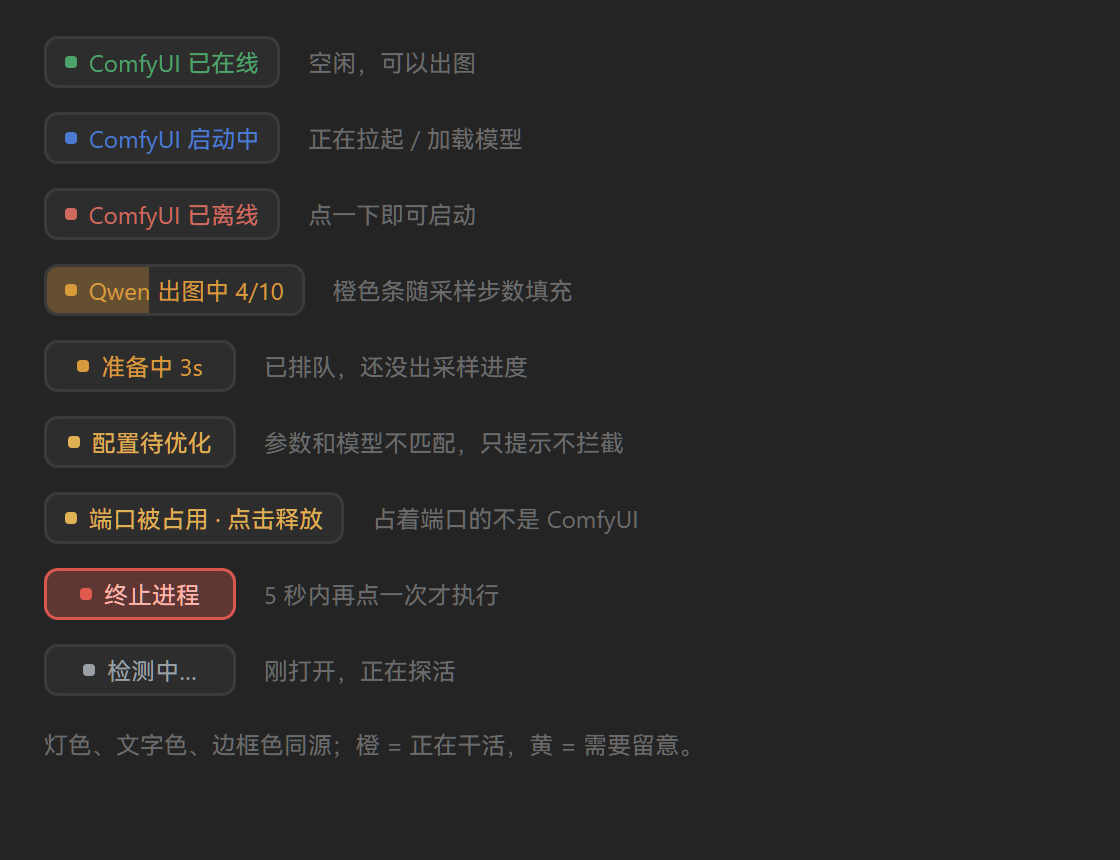
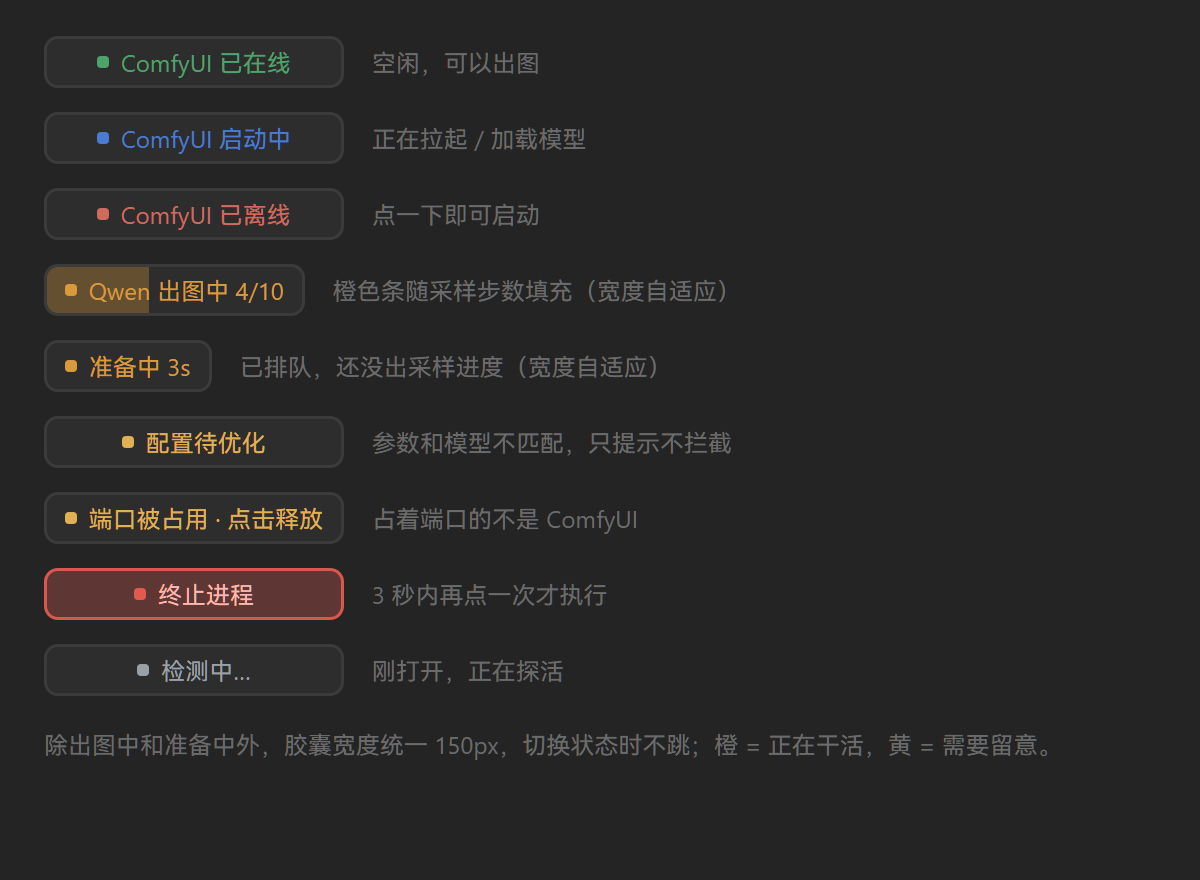
style: 除出图中外，胶囊宽度固定成 150px
之前胶囊宽度跟着文字走，切换状态时一会儿 96px、一会儿 118px、一会儿
还有 150px 的（「端口被占用 · 点击释放」），对话框右侧那块会跟着抖。

现在按最长的那个状态量出来是 150px，固定成它：
- .qwd-seat 加 box-sizing: border-box + width: 150px（原来只有 min-width: 96px）
- .qwd-seat-busy 保持 width: auto——出图中和准备中的文字带步数 / 秒数，
  长度本来就在变
- .qwd-seat-panel 也保持 auto，设置页那个字号更大，150px 装不下

README 示意图重渲染。

diff --git a/client.js b/client.js
@@ -2226,9 +2226,11 @@ const SEAT_STYLE = `
   display: inline-flex; align-items: center; justify-content: center; gap: 6px;
   /* 固定最小宽度：待确认时文案会换，宽度一变胶囊就会左右抽动。
      96px 能装下「终止进程？」这类短文案，切换时宽度保持不变。 */
-  min-width: 96px;
-  /* 圆角不是全圆头：和插件里的按钮（7px）、输入框（6px）保持同一套圆角，
-     全圆头（13px = 高度的一半）看着像药丸，和 DSH 的方正风格不搭 */
+  /* 固定宽度，按最长的「端口被占用 · 点击释放」量出来是 150px。
+     这样切换状态时胶囊不会忽宽忽窄，对话框右侧那块不会跟着抖。
+     出图中和准备中的文字长度会变（步数、秒数），单独给它 width: auto。 */
+  box-sizing: border-box;
+  width: 150px;
   height: 26px; padding: 0 9px; border-radius: 7px;
   font-size: 12px; line-height: 1; white-space: nowrap;
   color: var(--dsw-alias-text-secondary, #8b8f96);
@@ -2263,7 +2265,7 @@ const SEAT_STYLE = `
   white-space: nowrap;
 }
 /* 设置页用的放大变体 */
-.qwd-seat-panel { height: 32px; padding: 0 14px; border-radius: 9px; font-size: 13px; gap: 8px; }
+.qwd-seat-panel { width: auto; height: 32px; padding: 0 14px; border-radius: 9px; font-size: 13px; gap: 8px; }
 /* 填充模式：整颗胶囊从左往右被进度填满，内容压在填充层之上 */
 .qwd-seat-fill { position: relative; overflow: hidden; }
 .qwd-seat-fill::before {
@@ -2281,7 +2283,8 @@ const SEAT_STYLE = `
    否则「准备中 3s」「出图中 4/10」这种正在干活的胶囊会和灯色对不上。
    检测中（unknown）本来就是中性灰，文字也用同色，读起来更统一。 */
 .qwd-seat-on { --qwd-seat-dot: #4ea36b; color: #4ea36b; }
-.qwd-seat-busy { --qwd-seat-dot: #d99a3c; color: #d99a3c; }
+/* 出图中和准备中的文字带步数 / 秒数，长度会变，不固定宽度 */
+.qwd-seat-busy { --qwd-seat-dot: #d99a3c; color: #d99a3c; width: auto; }
 .qwd-seat-starting { --qwd-seat-dot: #4a7bd0; color: #4a7bd0; }
 .qwd-seat-off { --qwd-seat-dot: #cf6a5f; color: #cf6a5f; }
 .qwd-seat-unknown { --qwd-seat-dot: #9aa0a6; color: #9aa0a6; }
